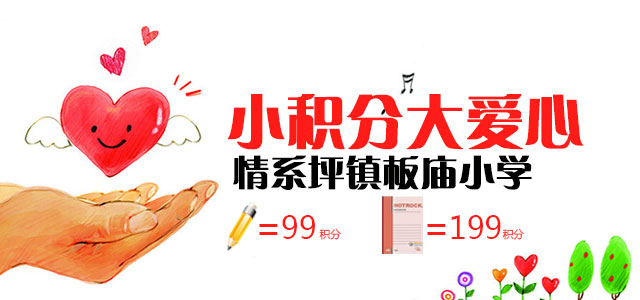
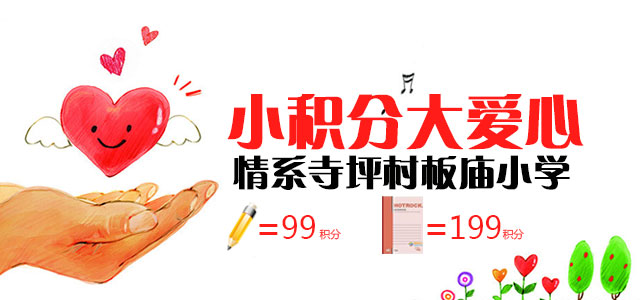
a

Changed region(s): [[0.4688, 0.51, 0.9062, 0.63]]

diff --git a/views/wapx/hd201509t2.php b/views/wapx/hd201509t2.php
@@ -69,8 +69,8 @@ $signPackage = $jssdk->GetSignPackage();
                     凭此画面可到营业厅充费送费，<br><br>了解详情请看'活动说明'。
                 </h4>
                 <br>
-                 <a class="btn btn-negative btn-block" style="width: 300px" id="queding">确认已参与</a>
-                 <p><b>注意</b> <br>‘确认已参与’按钮由联通工作人员点击。<br>用户请勿点击!</p>
+                 <a class="btn btn-block" style="width: 120px" id="queding">确认已参与</a>
+                 <p><b style="font-size: 14pt;color:red">注意!</b> <br>‘确认已参与’按钮由联通工作人员点击。<br>用户请勿点击!</p>
             </center>
         <?php } ?>
        
@@ -92,23 +92,64 @@ $signPackage = $jssdk->GetSignPackage();
 
             <p><b>活动规则</b></p>
             <p class='p1'>&nbsp;&nbsp;&nbsp;&nbsp;
-            （一）但凡2015年8月前入网的用户，使用本机号码关注襄阳联通微信号并绑定手机，即可参与活动。
+            （一）用户在充值后请点击微信活动界面的“确认已参与”按钮，便于系统话费到账；
             </p>
 
             <p class='p1'>&nbsp;&nbsp;&nbsp;&nbsp;
-            （二）用户可享受存100元送20元、存200元送40元话费优惠。上限为200元，且每个用户只能参与一次。
+            （二）用户可享受充100元送20元，充200元送40元话费优惠，上限为200元，且每个用户只能参加一次。赠送的话费在两天内由系统自动到账。
             </p>
 
             <p class='p1'>&nbsp;&nbsp;&nbsp;&nbsp;
-            （三）符合条件的用户在渠道或营业厅当场充值100/200元话费，由各渠道当场发放20元面值充值卡。
+            （三）用户在营业厅出示微信参与资格，即可参与活动。所充手机号码必须与襄阳联通微信绑定的会员号码一致。
             </p>
 
             <p class='p1'>&nbsp;&nbsp;&nbsp;&nbsp;
-            （四）渠道通过20元充值卡给用户充值，用户领取卡后必须由联通营业员点击微信活动页面的“确认已参与”按钮，便于微信后台统计数据，防止用户重复参与活动。
-            </p>
+            （四）所预存的话费到账方式如下：
+            <center>
+            <table width="95%" border="1" style="font-size: 12pt;color:#aaa">
+                <tr>  
+                    <th>
+                    用户网别
+                    </th>
+                    <th>
+                    预存100元
+                    </th>
+                    <th>
+                    预存200元
+                    </th>
+                    <th>
+                    赠送的话费
+                    </th>
+                </tr>
 
-            <p class='p1'>&nbsp;&nbsp;&nbsp;&nbsp;
-            （五）校园用户不可参与本次活动。
+                <tr>  
+                    <td>
+                    2G/3G用户
+                    </td>
+                    <td>
+                    60元一次性到账，40元话费分4个月每月到账10元 
+                    </td>
+                    <td>
+                    120元一次性到账，80元话费分4个月每月到账20元
+                    </td>
+                    <td>
+                      两天内系统自动到账
+                    </td>
+                </tr>
+
+                <tr>  
+                    <td>
+                    4G用户/首次续费用户
+                    </td>
+                    <td colspan="2">
+                    一次性到账 
+                    </td>
+                    <td>
+                      两天内系统自动到账
+                    </td>
+                </tr>
+            </table>
+            </center>
             </p>
             <br><hr>
             

diff --git a/views/wap/hgllblist.php b/views/wap/hgllblist.php
@@ -29,12 +29,36 @@
 
     <div data-role="content">
         <!--<ul data-role="listview" data-inset="true">-->
+
+
         <ul data-role="listview" data-inset="false" class="ui-nodisc-icon ui-alt-icon">
-        
+
+            <!--
+            <//?php 
+                foreach($models as $model) { 
+                if($model->cid==90010) {
+            ?>
+                <li><a data-ajax="false" href="<//?php echo  Url::to(['wap/hgllb', 'cid'=>$model->cid],true) ?>">
+                        <img style='padding-top:10px' src="<//?php echo $model->pic_url.'-120x120.jpg?v2' ?>">
+                        <h2><//?= $model->title ?></h2>
+                        <p><//?= $model->title_hint ?></p>
+          
+                        <//?php if($model->old_price != 0){ ?>
+                            <p class='line'>原价: ￥<//?=round($model->old_price / 100)?></p>
+                        <//?php } ?>
+
+                        <p>价格: ￥<//?= $model->price/100 ?></p>
+                    </a>
+                </li>
+            <//?php   
+                    }
+                }
+             ?>
+             -->
+
+
              <?php 
-
-            foreach($models as $model) { 
-
+                foreach($models as $model) { 
                 if($model->cid==90000 || 
                     $model->cid==90001 || 
                     $model->cid==90002 ||
@@ -42,7 +66,7 @@
                     $model->cid==90004 || 
                     $model->cid==90005 ||
                     $model->cid==90008 ||
-                    $model->cid==90009 
+                    $model->cid==90009
                     ) {
             ?>
                 <li><a data-ajax="false" href="<?php echo  Url::to(['wap/hgllb', 'cid'=>$model->cid],true) ?>">

diff --git a/controllers/WapxController.php b/controllers/WapxController.php
@@ -525,21 +525,20 @@ class WapxController extends Controller {
             'openid' => $openid,
         ]);
 
+        $bindMobiles = \app\models\OpenidBindMobile::findOne([
+                'gh_id' => $gh_id,
+                'openid' => $openid,
+            ]);
+
+        if (empty($bindMobiles)) 
+        {
+            $url = \yii\helpers\Url::to();
+            \Yii::$app->getSession()->set('RETURN_URL', $url);
+            return $this->redirect(['wap/addbindmobile', 'gh_id' => $gh_id, 'openid' => $openid]);
+        } 
+
         if (empty($hd201509t2)) {
 
-            $bindMobiles = \app\models\OpenidBindMobile::findOne([
-                    'gh_id' => $gh_id,
-                    'openid' => $openid,
-                ]);
-
-            if (empty($bindMobiles)) 
-            {
-                $url = \yii\helpers\Url::to();
-                \Yii::$app->getSession()->set('RETURN_URL', $url);
-                return $this->redirect(['wap/addbindmobile', 'gh_id' => $gh_id, 'openid' => $openid]);
-            } 
-            else 
-            {
                 $hd201509t1 = \app\models\MHd201509t1::findOne([
                         'mobile' => $bindMobiles->mobile,
                     ]);
@@ -560,8 +559,7 @@ class WapxController extends Controller {
                     //不在能充值的用户表中， 不符合充值条件，显示对不起页面
                     return $this->render('hd201509t2_1');
                 }
-
-            }
+                
         }
 
         return $this->render('hd201509t2', [

diff --git a/views/wapx/hd201509t3.php b/views/wapx/hd201509t3.php
@@ -49,7 +49,7 @@ $lists = \app\models\MHd201509t4::find()
     <!--<div class="content" style="background-color: #401080">-->
     <div class="content">
 
-    <img width=100%  src="/wx/web/images/hd201509t3-head.jpg?v3">
+    <img width=100%  src="/wx/web/images/hd201509t3-head.jpg?v4">
     <hr width="100%" color="green">
 
         <p align="center">
@@ -172,7 +172,7 @@ $lists = \app\models\MHd201509t4::find()
             <br><hr>
             <p><b>捐赠地点</b></p>
             <p class='p1'>&nbsp;&nbsp;&nbsp;&nbsp;
-            湖北省襄阳市保康县寺坪镇板庙小学
+            湖北省襄阳市保康县寺坪村板庙小学
             </p>
             <br><hr>
             <p><b>活动兑换产品</b></p>
@@ -192,7 +192,7 @@ $lists = \app\models\MHd201509t4::find()
             <p class='p1'>留意襄阳日报、晚报相关报道。</p>
             <br><hr>
             <p><b>兑换成功后是否可以取消、所兑物品是否给用户？</b></p>
-            <p class='p1'>&nbsp;&nbsp;&nbsp;&nbsp;积分一经兑换不可取消，礼品不直接配送至客户，由襄阳联通统一派送至保康县寺坪镇龙凤村小学；</p>
+            <p class='p1'>&nbsp;&nbsp;&nbsp;&nbsp;积分一经兑换不可取消，礼品不直接配送至客户，由襄阳联通统一派送至湖北省襄阳市保康县寺坪村板庙小学；</p>
             <br>
             
             <p align="center">

diff --git a/controllers/Hd201509t2Controller.php b/controllers/Hd201509t2Controller.php
@@ -35,6 +35,21 @@ class Hd201509t2Controller extends Controller
         $searchModel = new MHd201509t2Search();
         $dataProvider = $searchModel->search(Yii::$app->request->queryParams);
 
+        if (isset($_GET['download'])) {
+            $dataProvider->setPagination(false);
+            $data = $dataProvider->getModels();
+            $date = date('Y-m-d-His');
+            $filename = Yii::$app->getRuntimePath().DIRECTORY_SEPARATOR.'chfshf'."-{$date}.csv";
+            $csv = new \app\models\ECSVExport($data);
+            $attributes = ['mobile', 'yfzx', 'fsc', 'create_time','status'];
+            $csv->setInclude($attributes);                
+            //$csv->setHeaders(['Score'=>'成绩']);
+            $csv->toCSV($filename);
+            Yii::$app->response->sendFile($filename);
+            return;
+        }
+
+
         return $this->render('index', [
             'searchModel' => $searchModel,
             'dataProvider' => $dataProvider,

diff --git a/models/MItem.php b/models/MItem.php
@@ -252,6 +252,7 @@ class MItem extends ActiveRecord {
     const ITEM_CAT_HGLLB_KG = 90007;
     const ITEM_CAT_HGLLB_LHTX = 90008;
     const ITEM_CAT_HGLLB_KJTX = 90009;
+    const ITEM_CAT_HGLLB_4G_SN_BNB = 90010;
 
     //(活动)校园优惠季 + 流量宝
     const ITEM_CAT_HD_XYYHJ = 80000;
@@ -452,6 +453,7 @@ class MItem extends ActiveRecord {
             self::ITEM_CAT_HGLLB_KG => '酷狗',
             self::ITEM_CAT_HGLLB_LHTX => '漏话提醒',
             self::ITEM_CAT_HGLLB_KJTX => '开机提醒',
+            self::ITEM_CAT_HGLLB_4G_SN_BNB => '4G 省内半年包',
 
             //(活动)校园优惠季 + 流量包
             self::ITEM_CAT_HD_XYYHJ  => '校园优惠季',

diff --git a/controllers/WapController.php b/controllers/WapController.php
@@ -1995,7 +1995,12 @@ return json_encode(['oid'=>$order->oid, 'status'=>0, 'pay_url'=>$url]);
             case MItem::ITEM_CAT_HGLLB_KJTX:
                 $order->title = '开机提醒';
                 $order->attr = "{$_GET['cardType']}";
-                break;    
+                break;   
+            case MItem::ITEM_CAT_HGLLB_4G_SN_BNB:
+                $order->title = '4G 省内半年包';
+                $order->attr = "{$_GET['cardType']}";
+                break;   
+
             //惠购流量包 end
             case MItem::ITEM_CAT_HD_XYYHJ:
                 $order->title = '校园优惠季';

diff --git a/views/wap/hgllb.php b/views/wap/hgllb.php
@@ -110,7 +110,10 @@
     text-align: right;
 }
 
-
+.line {
+    color: #aaaaaa;
+    text-decoration: line-through;
+}
 </style>
 	
 
@@ -134,9 +137,14 @@
             <?php echo  $item->title_hint; ?>
     </p>
 
+    <?php if($item->old_price != 0){ ?>
+        <p class='line'>原价: ￥<?=round($item->old_price / 100)?></p>
+    <?php } ?>
+                        
     <p id="price" class="title_comm">
 
 			价格  <span class="fee">￥<?php echo  ($item->price)/100; ?></span>
+
 			<br>
 			<span id="priceHint" class="productPkgHint"><?php echo $item->price_hint; ?></span>
     </p>

diff --git a/views/hd201509t2/index.php b/views/hd201509t2/index.php
@@ -1,5 +1,5 @@
 <?php
-
+use app\models\U;
 use yii\helpers\Html;
 use yii\grid\GridView;
 
@@ -33,7 +33,10 @@ $this->params['breadcrumbs'][] = $this->title;
         <//?= Html::a('Create Mhd201509t2', ['create'], ['class' => 'btn btn-success']) ?>
     </p>
 -->
-
+    <p>
+    <?php echo Html::a('下载 <i class="glyphicon glyphicon-arrow-down"></i>', U::current(['download' => 1]), ['class' => 'btn btn-success', 'data-pjax' => '0',]); ?>
+    </p>
+    
     <?= GridView::widget([
         'dataProvider' => $dataProvider,
         'filterModel' => $searchModel,
